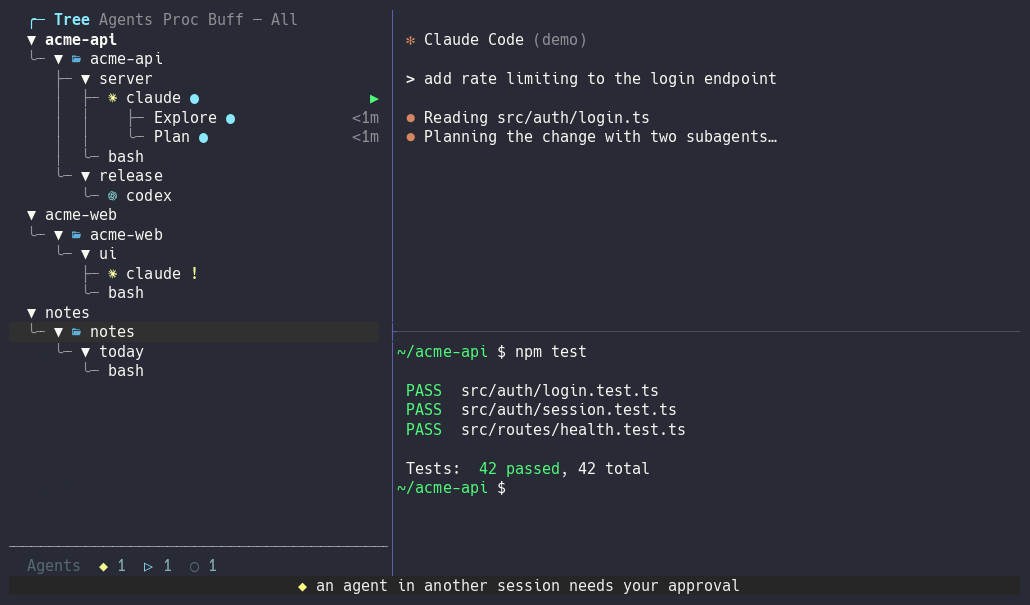
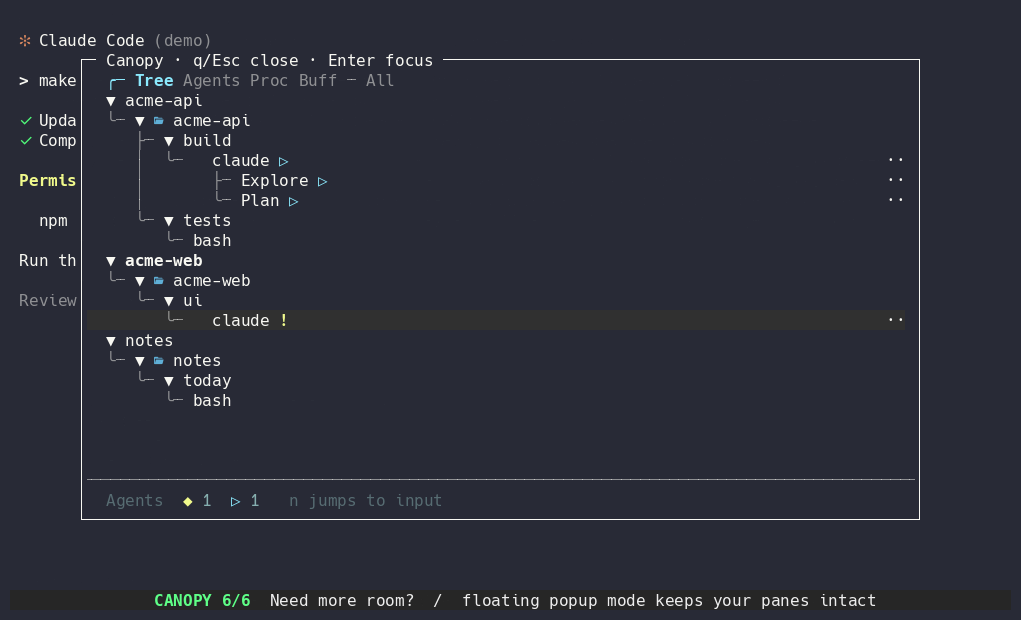
refresh README workflow demo

diff --git a/README.md b/README.md
@@ -10,9 +10,9 @@ Canopy keeps your sessions, windows, and panes in a persistent tree that follows
 
 ## Preview
 
-[![Animated tmux-canopy demo: opening the sidebar, moving through and folding the tree, searching, turning on agent mode, subagents appearing, and jumping to an agent that needs approval](docs/assets/canopy-demo.gif)](docs/assets/canopy-demo.gif)
+[![Canopy workflow: open the workspace tree, find and preview login tests, switch projects, follow subagents, jump to an agent waiting for approval, then open the floating popup](docs/assets/canopy-demo.gif)](docs/assets/canopy-demo.gif)
 
-[View a still image](docs/assets/canopy-demo.png).
+**Find work. Follow agents. Unblock the next task.** Dock it on a large display or open it as a floating popup when space is tight. Recorded in a real tmux client with fictional projects and scripted agent events. [View a still image](docs/assets/canopy-demo.png).
 
 ## Quick start
 
